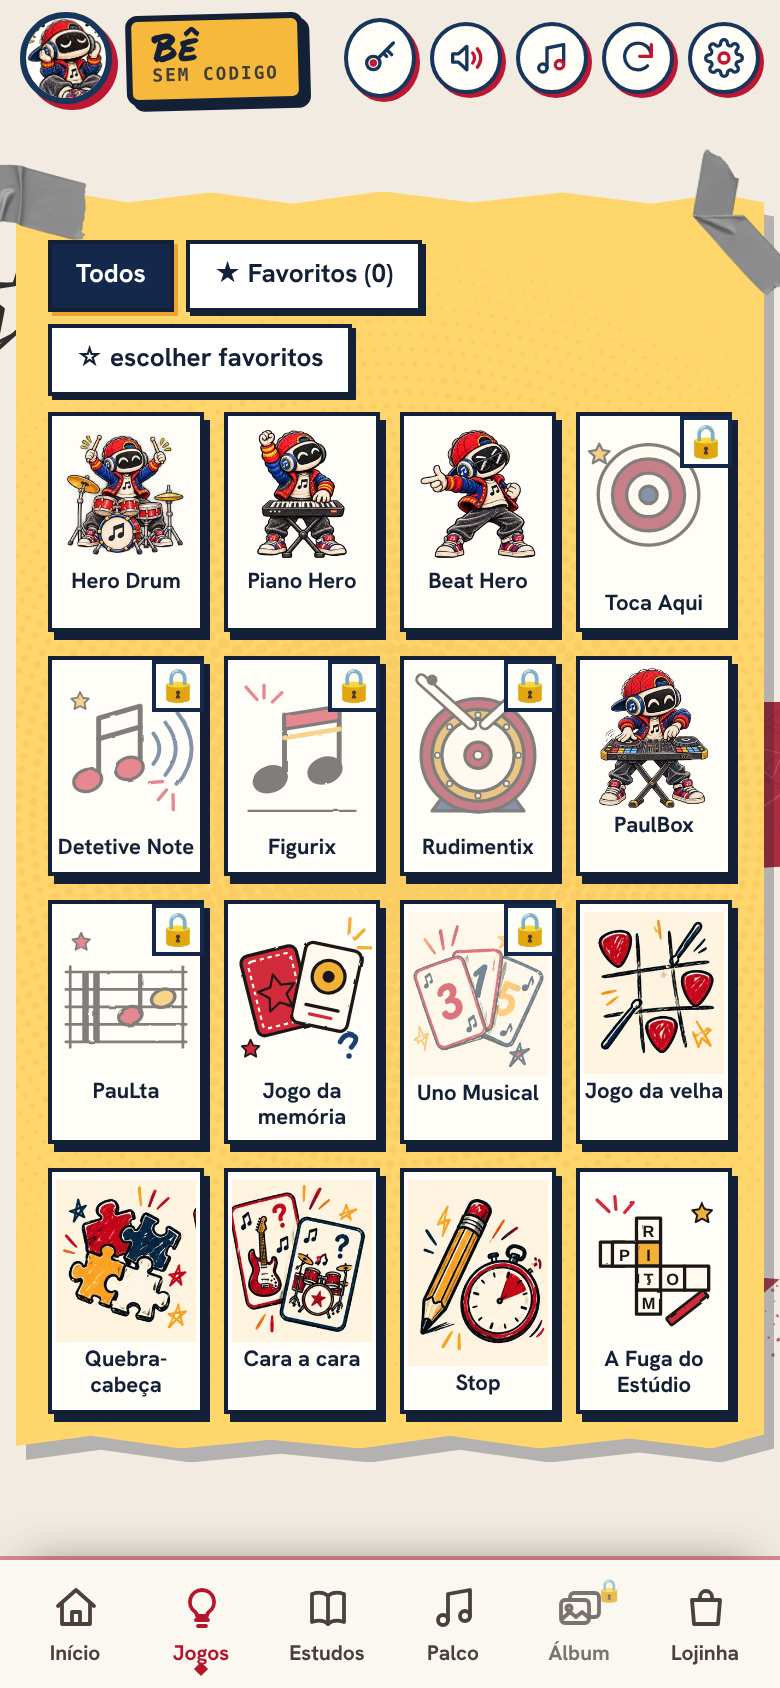
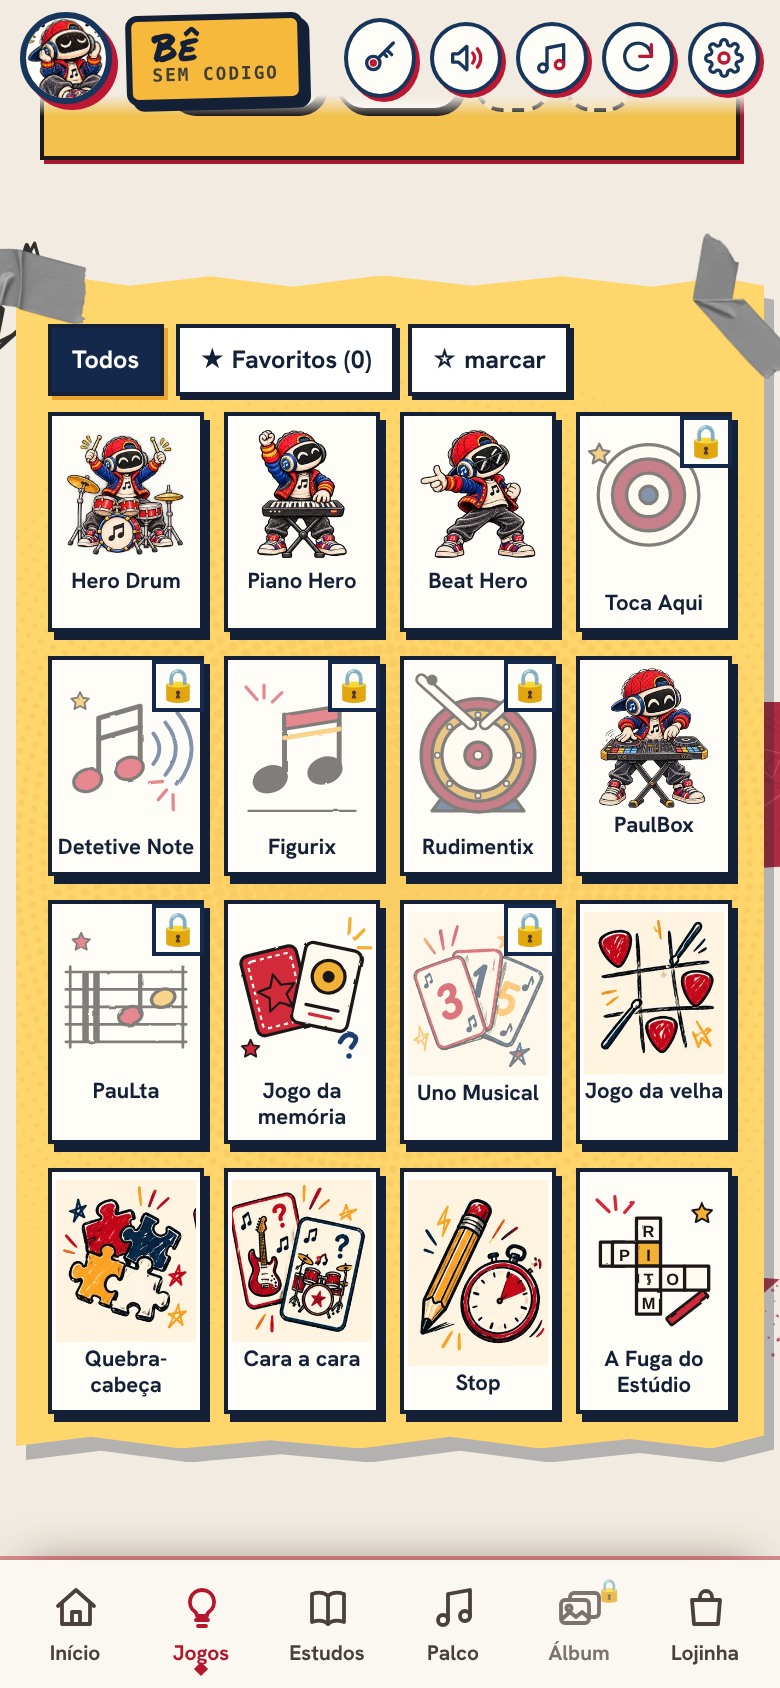
v727: chip '☆ marcar' na mesma linha do Favoritos
Claude-Session: https://claude.ai/code/session_017Ekti3kM2Vxnu27Y3eqQNw

Changed region(s): [[0.0, 0.0308, 1.0, 0.2464]]

diff --git a/js/views/jogos.js b/js/views/jogos.js
@@ -201,7 +201,7 @@ function catalog(host) {
     const keys = list.map(keyOf);
     bar.replaceChildren(
       ...[['todos', 'Todos'], ['fav', `★ Favoritos (${p.fav.filter((k) => keys.includes(k)).length})`]].map(([k, t]) => h('button', { type: 'button', class: `jgx-chip${filtro === k ? ' on' : ''}`, 'aria-pressed': String(filtro === k), onclick: () => { filtro = k; draw(); } }, t)),
-      h('button', { type: 'button', class: `jgx-chip jgx-favmode${favMode ? ' on' : ''}`, 'aria-pressed': String(favMode), onclick: () => { favMode = !favMode; draw(); } }, favMode ? 'pronto' : '☆ escolher favoritos'),
+      h('button', { type: 'button', class: `jgx-chip jgx-favmode${favMode ? ' on' : ''}`, 'aria-pressed': String(favMode), 'aria-label': favMode ? 'terminar de escolher favoritos' : 'escolher favoritos', onclick: () => { favMode = !favMode; draw(); } }, favMode ? 'pronto' : '☆ marcar'),
       aluno ? null : h('button', { type: 'button', class: `jgx-chip jgx-edit${editing ? ' on' : ''}`, onclick: () => { editing = !editing; draw(); } }, editing ? 'pronto' : 'editar'));
     grid.classList.toggle('jgx-editing', editing); grid.classList.toggle('jgx-favmode', favMode);
     grid.replaceChildren(...(shown.length ? shown.map((x) => {
@@ -210,7 +210,7 @@ function catalog(host) {
         h('button', { type: 'button', class: `jgx-star${fav ? ' on' : ''}`, 'aria-pressed': String(fav), 'aria-label': `${fav ? 'Tirar dos' : 'Pôr nos'} favoritos: ${x[1]}`, onclick: () => { const next = { ...p, fav: fav ? p.fav.filter((y) => y !== k) : [...p.fav, k] }; if (fav) change(next, 'tirado dos favoritos'); else savePrefs(next); } }, fav ? '★' : '☆'),
         editing ? h('div', { class: 'jgx-ctl' },
           h('button', { type: 'button', 'aria-label': `${off ? 'Mostrar' : 'Esconder'} ${x[1]}`, onclick: () => (off ? savePrefs({ ...p, hidden: p.hidden.filter((y) => y !== k) }) : change({ ...p, hidden: [...p.hidden, k] }, `${x[1]} escondido`)) }, off ? '↺' : '✕')) : null);
-    }) : [h('p', { class: 'jg-p', style: { gridColumn: '1 / -1' } }, 'Nenhum favorito ainda. Toque em “☆ escolher favoritos” e depois na ☆ de um jogo.')]));
+    }) : [h('p', { class: 'jg-p', style: { gridColumn: '1 / -1' } }, 'Nenhum favorito ainda. Toque em “☆ marcar” e depois na ☆ de um jogo.')]));
   };
   host.replaceChildren(banner('Jogos', 'todos os jogos num lugar só'), paulDica({ compacto: true }), h('div', { class: 'pad-x', style: 'display:grid;gap:10px' }, atalhoCodigoAluno(), atalhoContinuar(), atalhoSala()), catWrap = h('div', { class: `jg jg-wrap jg-cat${darkOn('') ? ' jg-dark' : ''}` }, bar, grid));
   draw();

diff --git a/sw.js b/sw.js
@@ -1,5 +1,5 @@
 // Service worker: cacheia só o "casco" do app (código + marca). Nenhum dado do usuário passa por aqui.
-const VERSION = 'beaterista-v726';
+const VERSION = 'beaterista-v727';
 const SHELL = [
   'js/paulta/livre.js', 'js/dicas-aluno.js', 'js/boas-vindas.js', 'js/inicio-perfil.js', 'js/jogos/cartas-print.js', 'assets/uno/paul-colorir.png', 'assets/velha/baquetas.webp', 'assets/velha/palheta.webp', 'assets/uno/paul-logo-colorir.png', 'assets/uno/paul-logo-colorir.png', 'js/icone-paul.js', 'js/palavras-bloqueadas.js',
   'js/paulta/mapa.js',

diff --git a/css/jogos.css b/css/jogos.css
@@ -1965,3 +1965,4 @@ body.bv-aberta { overflow: hidden; }
 /* as estrelinhas de favorito só aparecem quando a pessoa toca em "☆ escolher favoritos" (antes tapavam o desenho e o nome dos jogos) */
 .jgx-cell .jgx-star { display: none; }
 .jg-cat.jgx-favmode .jgx-star, .jgx-favmode .jgx-star, .jgx-editing .jgx-star { display: block; }
+.jgx-bar { flex-wrap: nowrap; } .jgx-bar .jgx-chip { padding: 0 10px; font-size: 12.5px; white-space: nowrap; } .jgx-bar .jgx-edit { margin-left: auto; }
